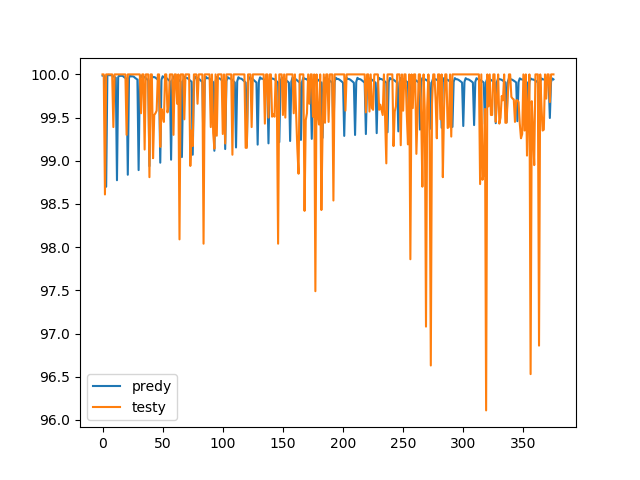
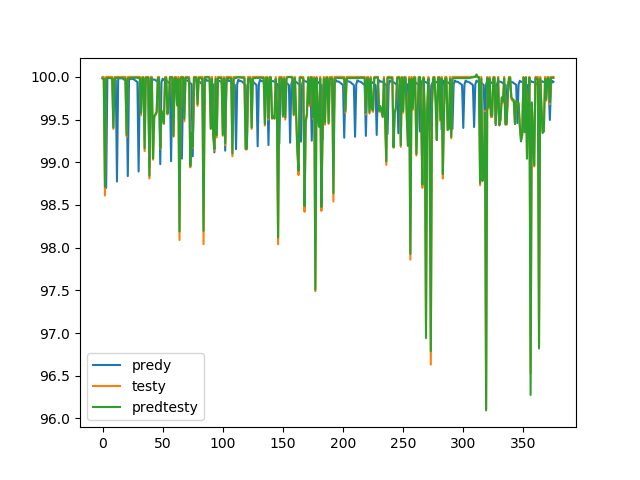
sda:wq

diff --git a/AIStudy/rnn/lstm.py b/AIStudy/rnn/lstm.py
@@ -89,17 +89,19 @@ def use_model():
 		#训练集最后一行为测试样本
 		test_x_list = train_x[-1:] 
 		pred_y_list = []
+		pred_test_y = []
 		for i in range(len(test_y)):
 			pred = sess.run(pred_y,feed_dict={X:test_x_list})
 			test_x_list[-1] = vstack((test_x_list[-1,1:],pred))
 			pred_y_list.extend(pred)
+			pred_test_y.extend(sess.run(pred_y,feed_dict={X:test_x[i:i+1]}))
 		_pred_y_list = scaler.inverse_transform(pred_y_list)
 		_test_y = scaler.inverse_transform(test_y)
-		for i in range(376):
-			print(_pred_y_list[i],_test_y[i])
+		_pred_test_y = scaler.inverse_transform(pred_test_y)
 		plt.plot(_pred_y_list)
 		plt.plot(_test_y)
-		plt.legend(['predy','testy'])
+		plt.plot(_pred_test_y)
+		plt.legend(['predy','testy','predtesty'])
 		plt.savefig('../pic/pred.png')
 
 x,y,scaler = load_data()
